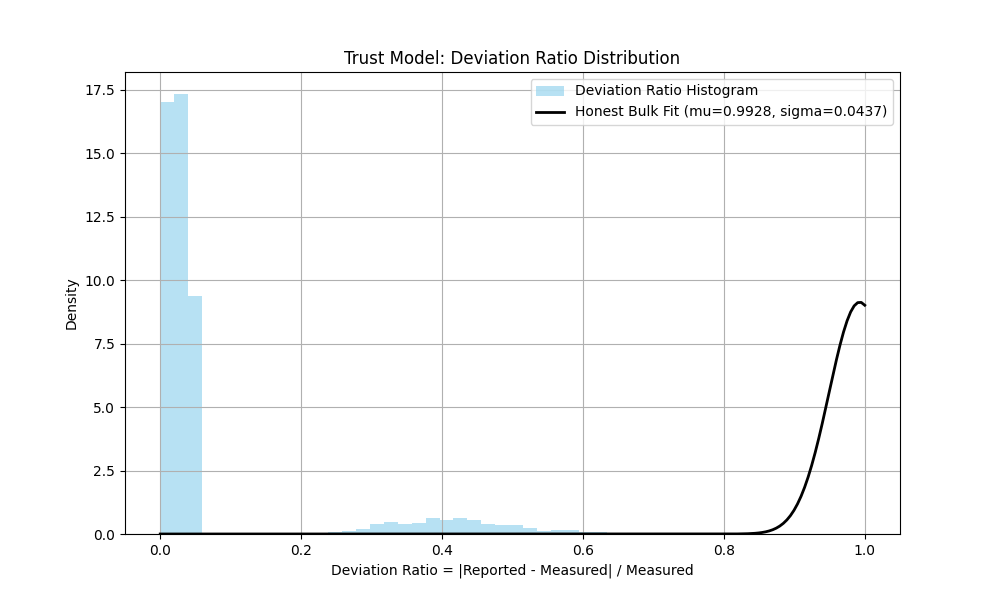
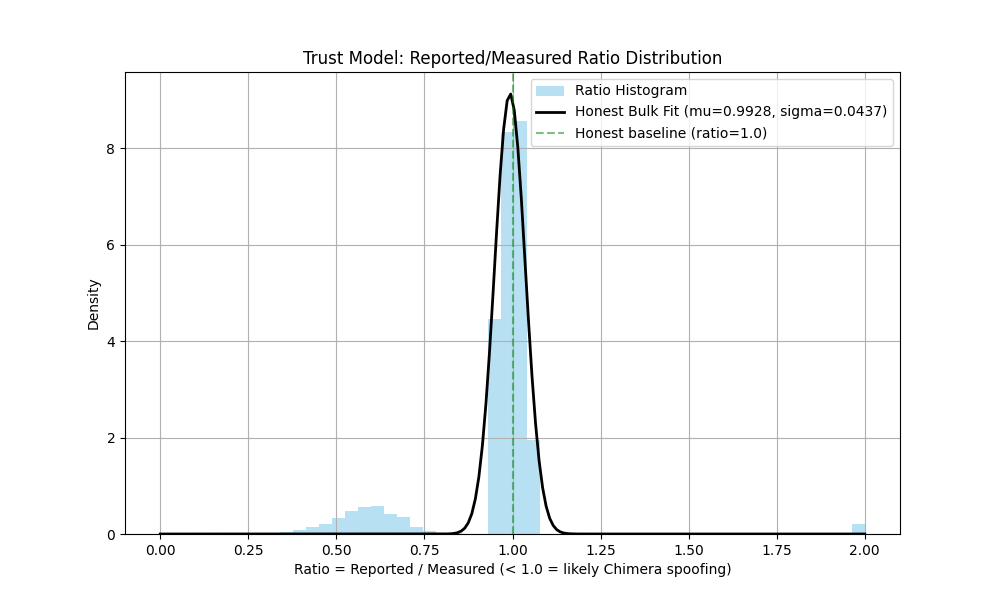
fix trust eval plot

diff --git a/backend/training/train_all.py b/backend/training/train_all.py
@@ -54,7 +54,7 @@ def generate_plots():
     if os.path.exists(telemetry_csv) and os.path.exists(trust_model_path):
         df_tel = pd.read_csv(telemetry_csv).dropna(subset=['self_reported_latency_ms', 'measured_latency_ms'])
         df_tel = df_tel[df_tel['measured_latency_ms'] > 0]
-        df_tel['deviation_ratio'] = np.abs(df_tel['self_reported_latency_ms'] - df_tel['measured_latency_ms']) / df_tel['measured_latency_ms']
+        df_tel['ratio'] = df_tel['self_reported_latency_ms'] / df_tel['measured_latency_ms']
         
         trust_model = joblib.load(trust_model_path)
         mu = trust_model['honest_distribution']['mu']
@@ -62,20 +62,22 @@ def generate_plots():
         
         plt.figure(figsize=(10, 6))
         
-        # Filter for visualization (clip long tail)
-        max_plot_val = min(df_tel['deviation_ratio'].max(), 1.0)
-        plot_data = df_tel[df_tel['deviation_ratio'] <= max_plot_val]['deviation_ratio']
+        # Filter for visualization (clip outliers)
+        plot_data = df_tel['ratio'].clip(0, 2.0)
         
-        # Histogram of deviations
-        plt.hist(plot_data, bins=50, density=True, alpha=0.6, color='skyblue', label='Deviation Ratio Histogram')
+        # Histogram of ratios
+        plt.hist(plot_data, bins=50, density=True, alpha=0.6, color='skyblue', label='Ratio Histogram')
         
         # Overlay the Gaussian
-        x = np.linspace(0, max_plot_val, 200)
+        x = np.linspace(0, 2.0, 200)
         p = stats.norm.pdf(x, mu, sigma)
         plt.plot(x, p, 'k', linewidth=2, label=f'Honest Bulk Fit (mu={mu:.4f}, sigma={sigma:.4f})')
         
-        plt.title('Trust Model: Deviation Ratio Distribution')
-        plt.xlabel('Deviation Ratio = |Reported - Measured| / Measured')
+        # Mark the deception zone
+        plt.axvline(x=1.0, color='green', linestyle='--', alpha=0.5, label='Honest baseline (ratio=1.0)')
+        
+        plt.title('Trust Model: Reported/Measured Ratio Distribution')
+        plt.xlabel('Ratio = Reported / Measured (< 1.0 = likely Chimera spoofing)')
         plt.ylabel('Density')
         plt.legend()
         plt.grid(True)
